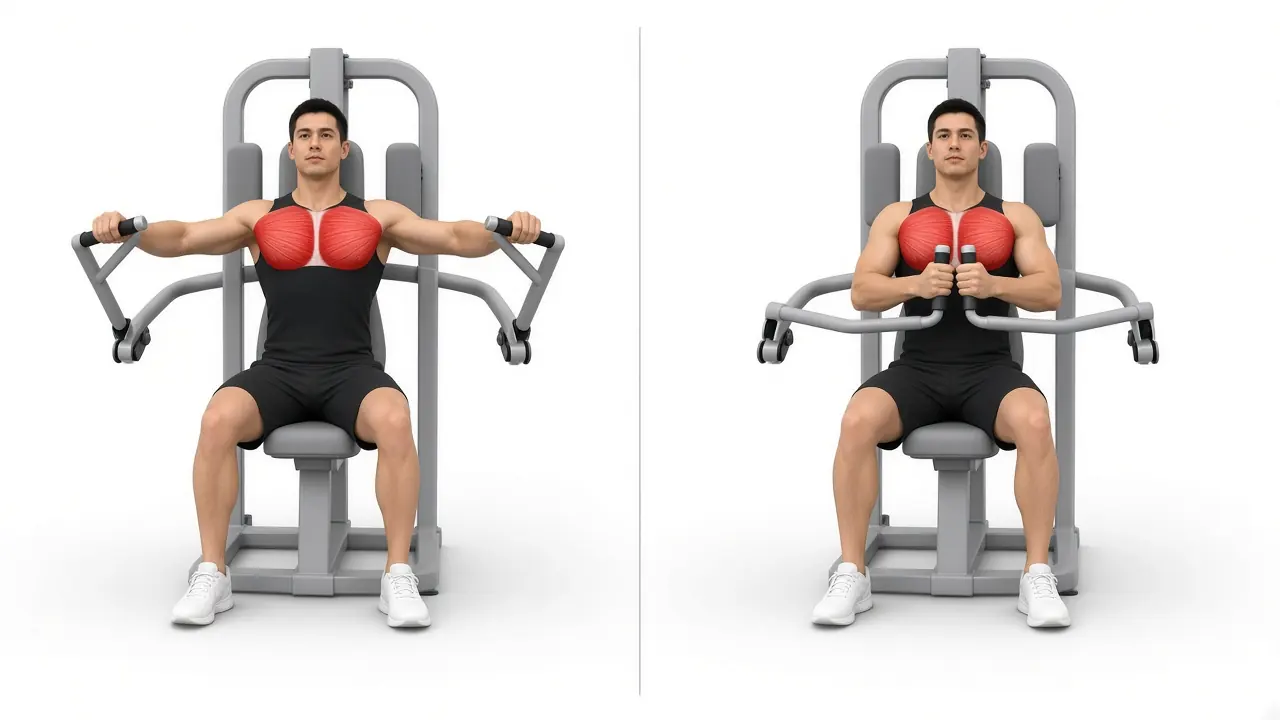
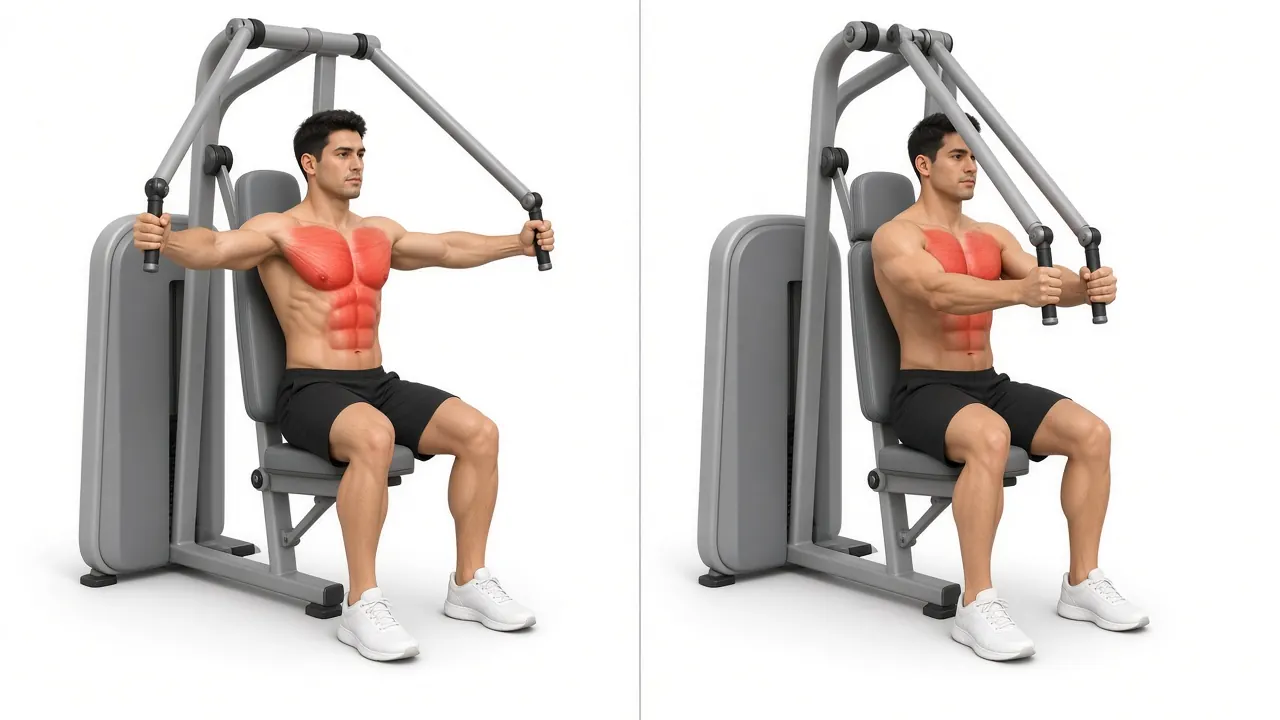
Hammercurl mit senkrechtem Griff und Butterfly in Dreiviertelansicht
Der Hammercurl zeigt den neutralen Griff, Hantelstange senkrecht, Scheiben
oben und unten. Der Butterfly sitzt aufrecht an der Maschine, Start offen,
Ende vor der Brust. Der Offline Cache heißt franz-fitness-v7.

diff --git a/sw.js b/sw.js
@@ -1,5 +1,5 @@
 // Franz Fitness Service Worker: speichert die App fuer Offline Nutzung (nur bei https oder localhost aktiv)
-const C="franz-fitness-v6";const F=["./", "./index.html", "./manifest.json", "./icons/icon-192.png", "./icons/icon-512.png", "./icons/apple-touch-icon.png", "./illustrations/bandrudern.webp", "./illustrations/beinpresse.webp", "./illustrations/birddog.webp", "./illustrations/bizeps.webp", "./illustrations/brustpresse.webp", "./illustrations/crunch.webp", "./illustrations/deadbug.webp", "./illustrations/fliegende.webp", "./illustrations/goblet.webp", "./illustrations/hammer.webp", "./illustrations/hipthrust.webp", "./illustrations/hs_schraeg.webp", "./illustrations/kh_bank.webp", "./illustrations/kh_rudern.webp", "./illustrations/kniebeuge.webp", "./illustrations/latzug.webp", "./illustrations/liegestuetz.webp", "./illustrations/multipresse.webp", "./illustrations/pallof.webp", "./illustrations/plank.webp", "./illustrations/rdl.webp", "./illustrations/revcrunch.webp", "./illustrations/rudern.webp", "./illustrations/schraegbank.webp", "./illustrations/seitheben.webp", "./illustrations/seitstutz.webp", "./illustrations/trizeps_seil.webp", "./illustrations/trizeps_strecker.webp", "./illustrations/trizeps_ueberkopf.webp"];
+const C="franz-fitness-v7";const F=["./", "./index.html", "./manifest.json", "./icons/icon-192.png", "./icons/icon-512.png", "./icons/apple-touch-icon.png", "./illustrations/bandrudern.webp", "./illustrations/beinpresse.webp", "./illustrations/birddog.webp", "./illustrations/bizeps.webp", "./illustrations/brustpresse.webp", "./illustrations/crunch.webp", "./illustrations/deadbug.webp", "./illustrations/fliegende.webp", "./illustrations/goblet.webp", "./illustrations/hammer.webp", "./illustrations/hipthrust.webp", "./illustrations/hs_schraeg.webp", "./illustrations/kh_bank.webp", "./illustrations/kh_rudern.webp", "./illustrations/kniebeuge.webp", "./illustrations/latzug.webp", "./illustrations/liegestuetz.webp", "./illustrations/multipresse.webp", "./illustrations/pallof.webp", "./illustrations/plank.webp", "./illustrations/rdl.webp", "./illustrations/revcrunch.webp", "./illustrations/rudern.webp", "./illustrations/schraegbank.webp", "./illustrations/seitheben.webp", "./illustrations/seitstutz.webp", "./illustrations/trizeps_seil.webp", "./illustrations/trizeps_strecker.webp", "./illustrations/trizeps_ueberkopf.webp"];
 self.addEventListener("install",e=>{e.waitUntil(caches.open(C).then(c=>c.addAll(F)).then(()=>self.skipWaiting()))});
 self.addEventListener("activate",e=>{e.waitUntil(caches.keys().then(k=>Promise.all(k.filter(x=>x!==C).map(x=>caches.delete(x)))).then(()=>self.clients.claim()))});
 self.addEventListener("fetch",e=>{if(e.request.method!=="GET")return;e.respondWith(caches.match(e.request,{ignoreSearch:true}).then(r=>r||fetch(e.request).then(n=>{const cp=n.clone();caches.open(C).then(c=>c.put(e.request,cp));return n;})))});

diff --git a/src/build.py b/src/build.py
@@ -13,7 +13,7 @@ ill_dir = os.path.join(ROOT, "illustrations")
 pics = sorted(n for n in os.listdir(ill_dir) if n.endswith(".webp")) if os.path.isdir(ill_dir) else []
 files = ["./", "./index.html", "./manifest.json", "./icons/icon-192.png", "./icons/icon-512.png", "./icons/apple-touch-icon.png"] + ["./illustrations/" + n for n in pics]
 open(os.path.join(ROOT, "sw.js"), "w", encoding="utf-8").write('''// Franz Fitness Service Worker: speichert die App fuer Offline Nutzung (nur bei https oder localhost aktiv)
-const C="franz-fitness-v6";const F=%s;
+const C="franz-fitness-v7";const F=%s;
 self.addEventListener("install",e=>{e.waitUntil(caches.open(C).then(c=>c.addAll(F)).then(()=>self.skipWaiting()))});
 self.addEventListener("activate",e=>{e.waitUntil(caches.keys().then(k=>Promise.all(k.filter(x=>x!==C).map(x=>caches.delete(x)))).then(()=>self.clients.claim()))});
 self.addEventListener("fetch",e=>{if(e.request.method!=="GET")return;e.respondWith(caches.match(e.request,{ignoreSearch:true}).then(r=>r||fetch(e.request).then(n=>{const cp=n.clone();caches.open(C).then(c=>c.put(e.request,cp));return n;})))});

diff --git a/README.md b/README.md
@@ -22,7 +22,7 @@ Karte 15, Life Fitness Geräte plus Freihantel, Ganzkörper A und B.
 6. **Mehr**: Samstag oder Sonntag als dritter Tag ab Woche 2, Einheiten verschieben, Export, Import, Zurücksetzen.
 
 ## Daten
-Alles liegt im `localStorage` des Browsers (Schlüssel `franz-fitness-app-v1`, unverändert, damit vorhandene Einträge erhalten bleiben). Einträge vor dem 20.11.2026 bleiben unter Frühere Einträge und zählen nicht als Programmtage. Der Offline Cache heißt `franz-fitness-v6`.
+Alles liegt im `localStorage` des Browsers (Schlüssel `franz-fitness-app-v1`, unverändert, damit vorhandene Einträge erhalten bleiben). Einträge vor dem 20.11.2026 bleiben unter Frühere Einträge und zählen nicht als Programmtage. Der Offline Cache heißt `franz-fitness-v7`.
 
 Übungsbilder sind eigene Abbildungen (Start und Ende, Zielmuskel rot) und liegen als WebP im Offline Cache. Core Training gibt 20 XP pro Tag, 50 XP ab dem Wochenziel (Woche 1: 2 Tage, danach 4) und 20 XP extra am Strecktag. Der Pausentimer zeigt große Ziffern, mit Vollbild und Wachhalten, wenn der Browser das kann.
 
